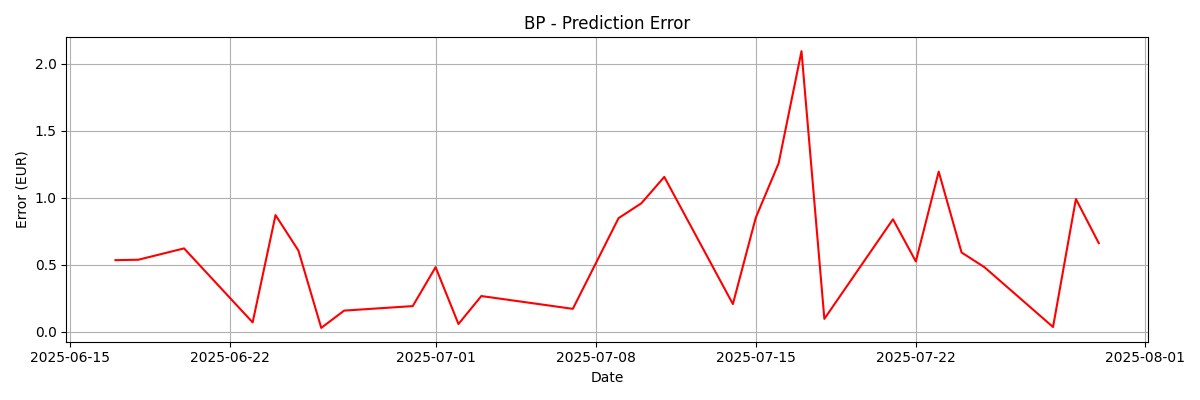
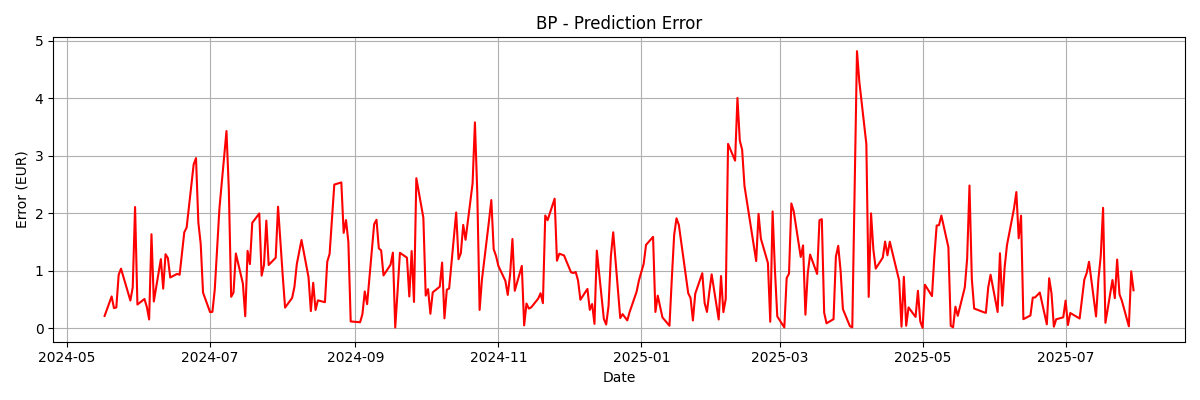
Update error and predictions

diff --git a/src/main.rs b/src/main.rs
@@ -100,7 +100,7 @@ fn test() {
 
     let network = Network::load_from_file("./data/network.bin").unwrap();
     const CHUNK_SIZE: usize = 365;
-    let num_predictions = 30;
+    let num_predictions = 300;
 
     let stock = portfolio.stock(LEARN_TICKER[0]).expect("Stock not found");
 
